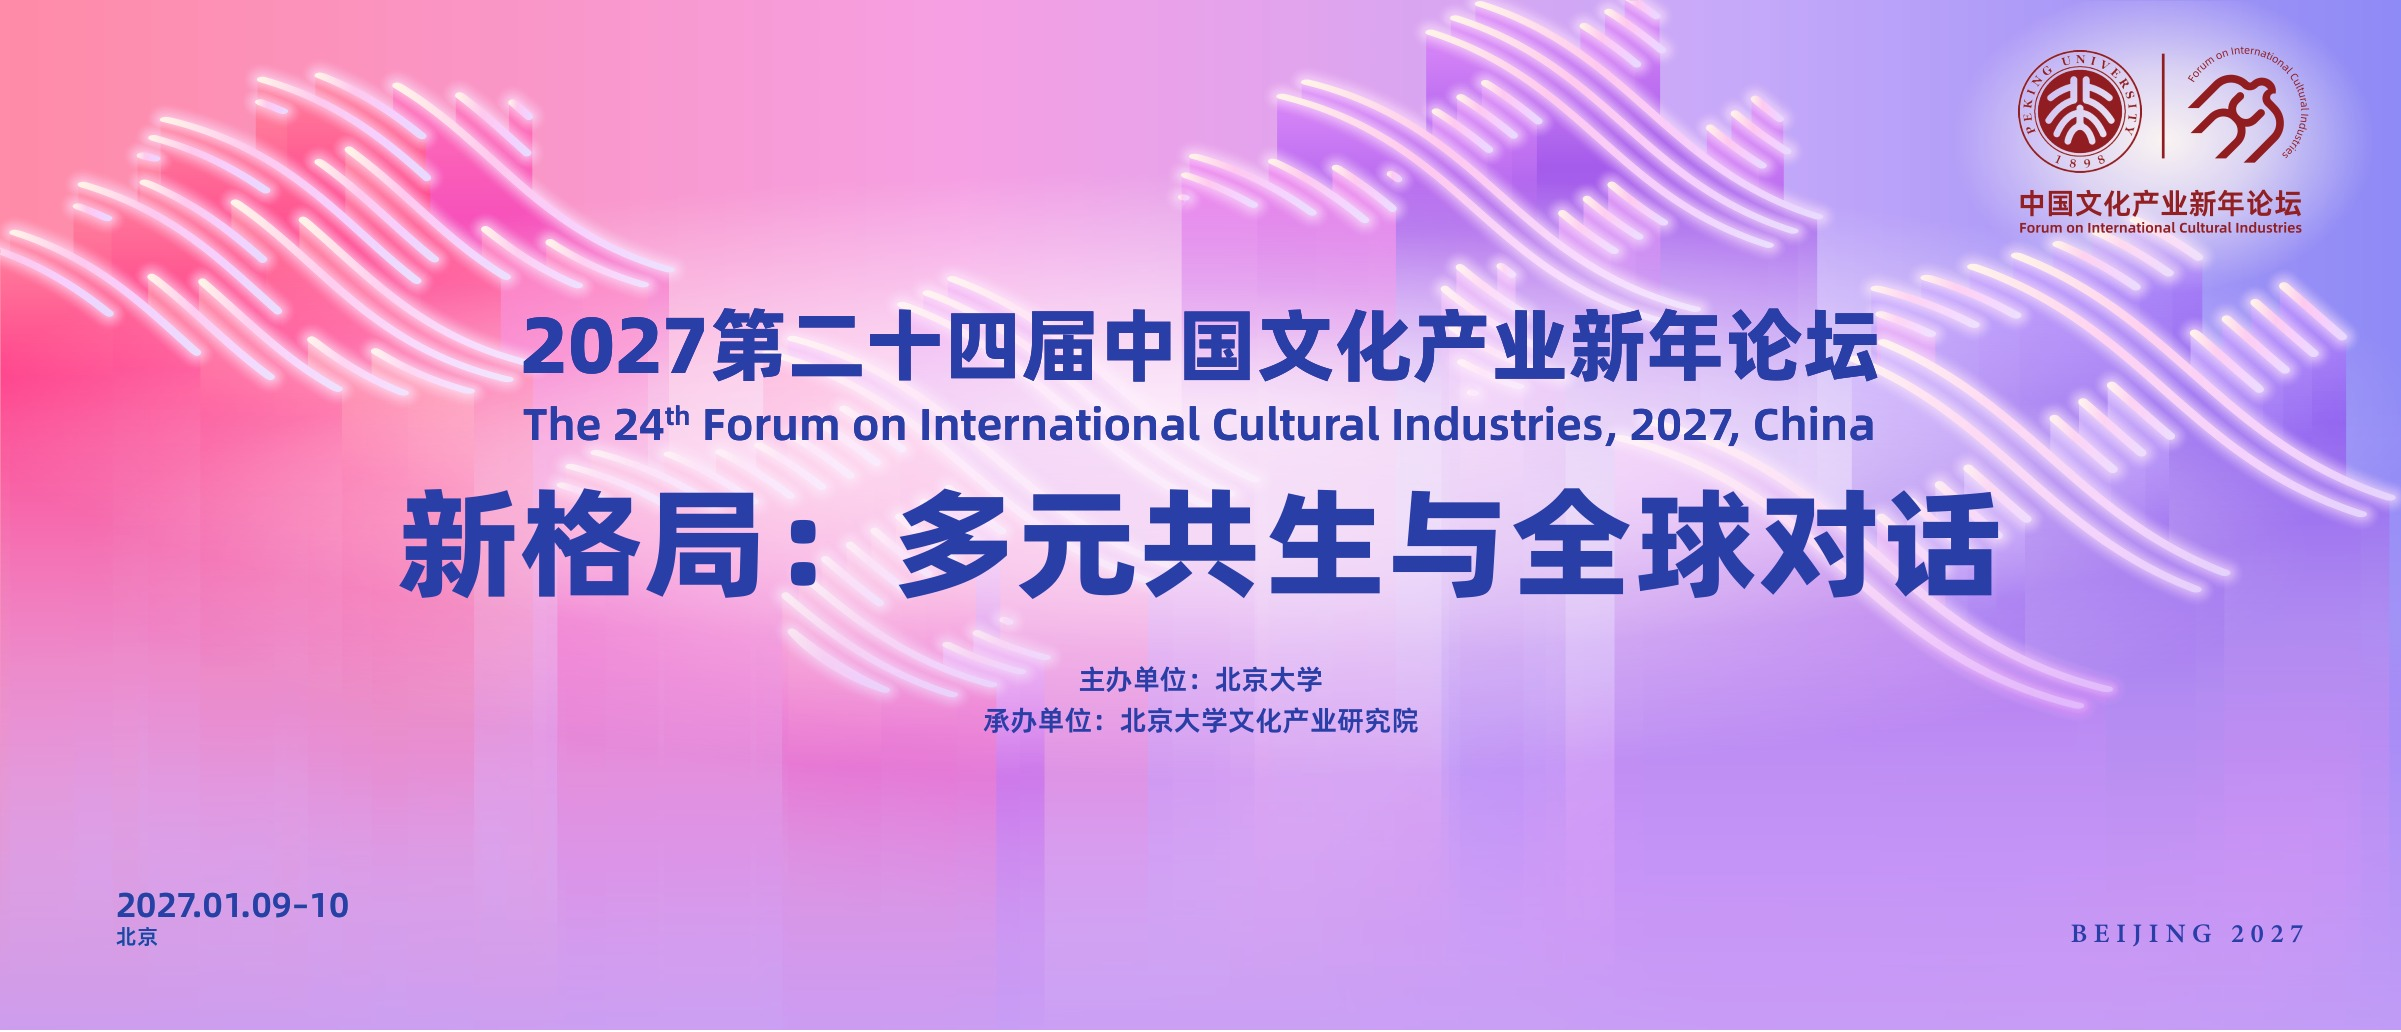
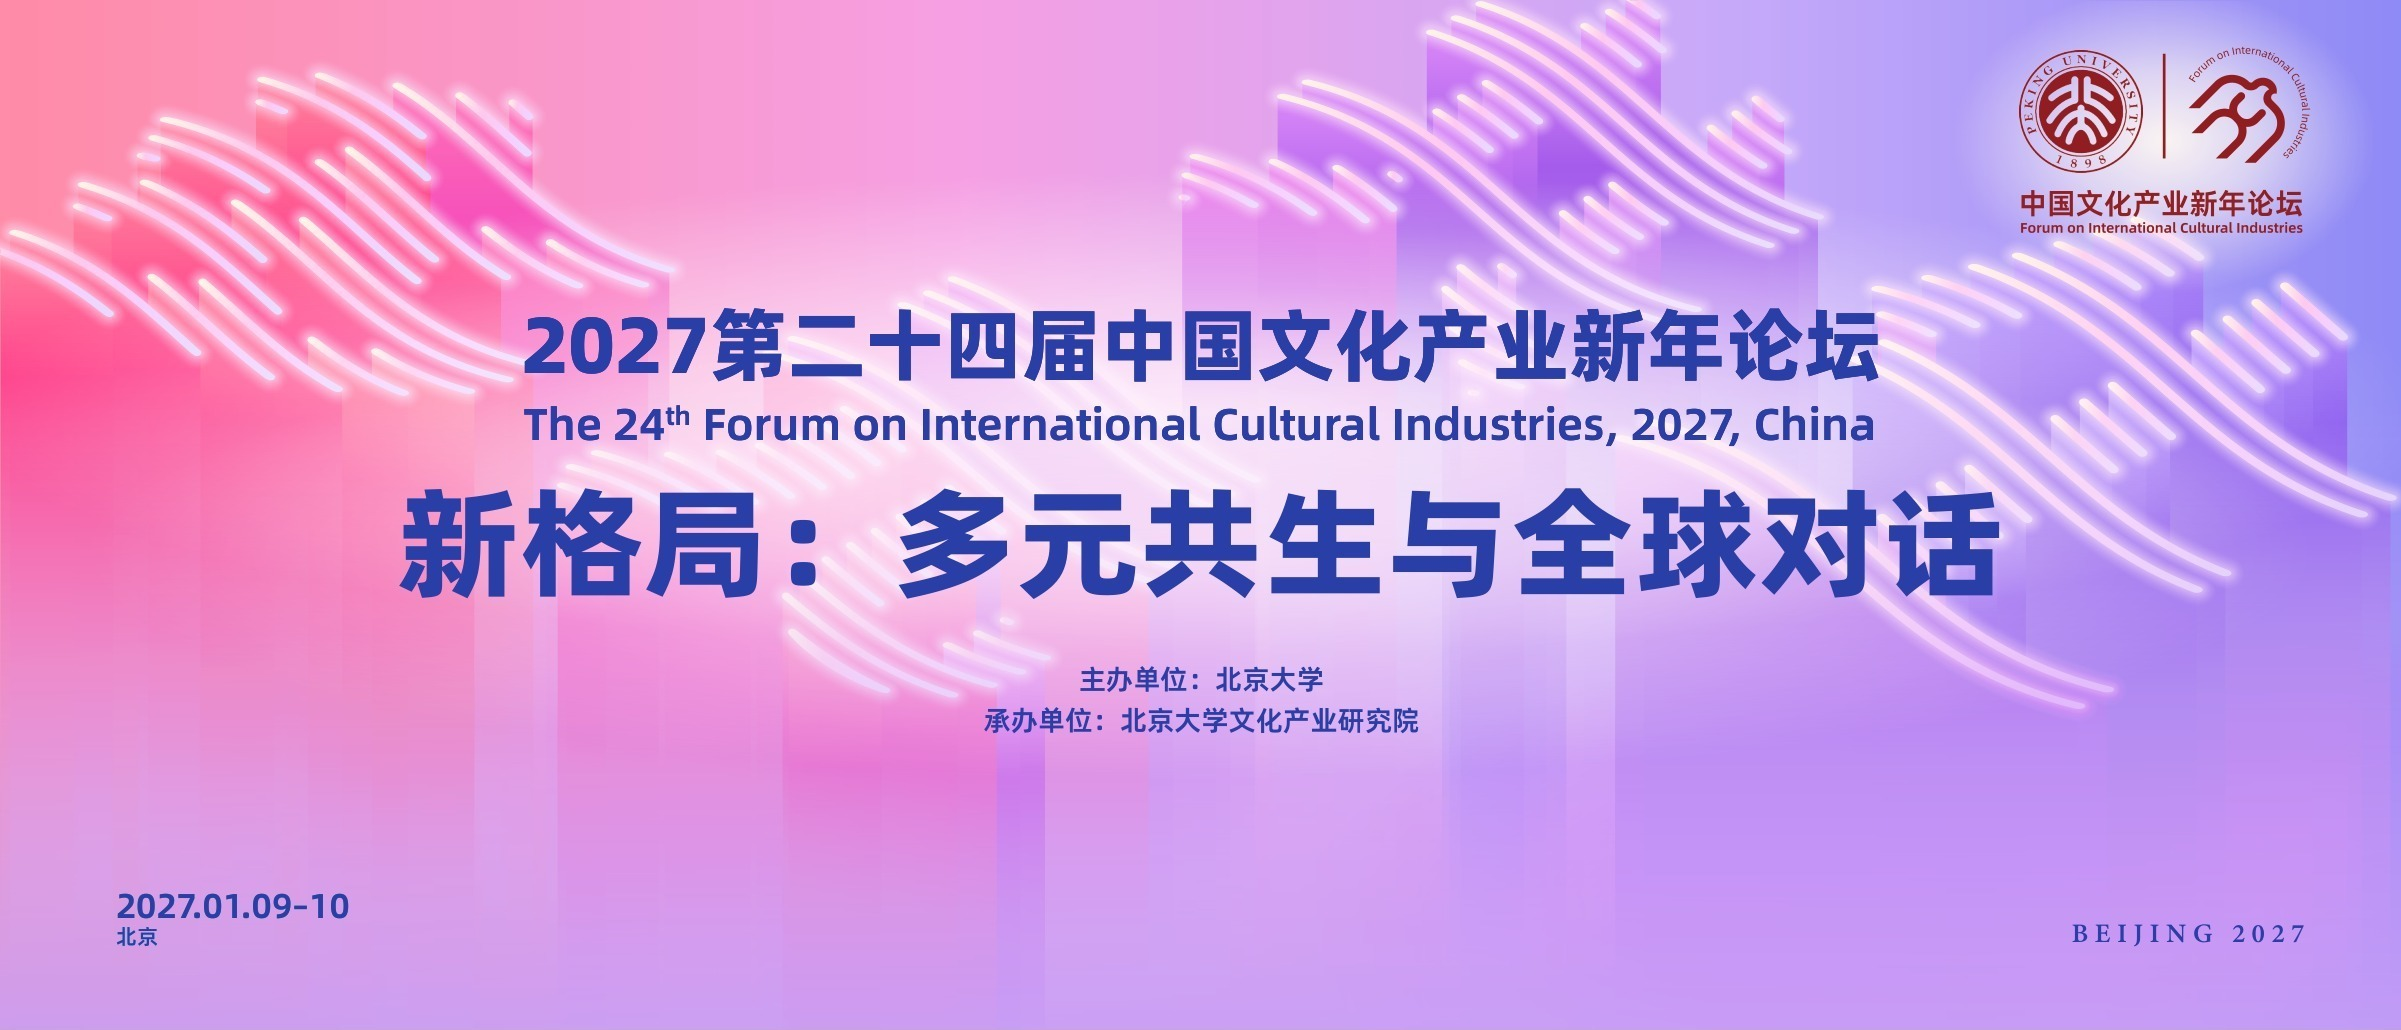
主视觉去掉底部白边；导航移除最新消息
- hero-poster 重新从 PDF render 并裁掉底部白边（2401×1030），同步 width/height 与 aspect-ratio
- 导航去掉「最新消息」入口，站内改由首页最新消息板块进入 news.html

diff --git a/index.html b/index.html
@@ -23,7 +23,6 @@
     <nav class="nav" id="nav" aria-label="主导航">
       <ul class="nav-list">
         <li class="is-active"><a href="index.html">首页</a></li>
-        <li><a href="news.html">最新消息</a></li>
         <li><a href="agenda.html">简要日程</a></li>
         <li><a href="program.html">论坛板块</a></li>
         <li><a href="speeches.html">演讲集萃</a></li>
@@ -46,7 +45,7 @@
 
 <section class="hero" aria-label="主视觉">
   <div class="hero-poster-wrap">
-    <img class="hero-poster" src="assets/hero-poster.jpg" alt="2027第二十四届中国文化产业新年论坛主视觉海报" width="2401" height="1032">
+    <img class="hero-poster" src="assets/hero-poster.jpg" alt="2027第二十四届中国文化产业新年论坛主视觉海报" width="2401" height="1030">
   </div>
   <div class="hero-bar" aria-hidden="true"></div>
 </section>

diff --git a/agenda.html b/agenda.html
@@ -23,7 +23,6 @@
     <nav class="nav" id="nav" aria-label="主导航">
       <ul class="nav-list">
         <li><a href="index.html">首页</a></li>
-        <li><a href="news.html">最新消息</a></li>
         <li class="is-active"><a href="agenda.html">简要日程</a></li>
         <li><a href="program.html">论坛板块</a></li>
         <li><a href="speeches.html">演讲集萃</a></li>

diff --git a/news.html b/news.html
@@ -23,7 +23,6 @@
     <nav class="nav" id="nav" aria-label="主导航">
       <ul class="nav-list">
         <li><a href="index.html">首页</a></li>
-        <li class="is-active"><a href="news.html">最新消息</a></li>
         <li><a href="agenda.html">简要日程</a></li>
         <li><a href="program.html">论坛板块</a></li>
         <li><a href="speeches.html">演讲集萃</a></li>

diff --git a/program-main.html b/program-main.html
@@ -23,7 +23,6 @@
     <nav class="nav" id="nav" aria-label="主导航">
       <ul class="nav-list">
         <li><a href="index.html">首页</a></li>
-        <li><a href="news.html">最新消息</a></li>
         <li><a href="agenda.html">简要日程</a></li>
         <li class="is-active"><a href="program.html">论坛板块</a></li>
         <li><a href="speeches.html">演讲集萃</a></li>

diff --git a/program-theme.html b/program-theme.html
@@ -23,7 +23,6 @@
     <nav class="nav" id="nav" aria-label="主导航">
       <ul class="nav-list">
         <li><a href="index.html">首页</a></li>
-        <li><a href="news.html">最新消息</a></li>
         <li><a href="agenda.html">简要日程</a></li>
         <li class="is-active"><a href="program.html">论坛板块</a></li>
         <li><a href="speeches.html">演讲集萃</a></li>

diff --git a/program-thinktank.html b/program-thinktank.html
@@ -23,7 +23,6 @@
     <nav class="nav" id="nav" aria-label="主导航">
       <ul class="nav-list">
         <li><a href="index.html">首页</a></li>
-        <li><a href="news.html">最新消息</a></li>
         <li><a href="agenda.html">简要日程</a></li>
         <li class="is-active"><a href="program.html">论坛板块</a></li>
         <li><a href="speeches.html">演讲集萃</a></li>

diff --git a/program-young.html b/program-young.html
@@ -23,7 +23,6 @@
     <nav class="nav" id="nav" aria-label="主导航">
       <ul class="nav-list">
         <li><a href="index.html">首页</a></li>
-        <li><a href="news.html">最新消息</a></li>
         <li><a href="agenda.html">简要日程</a></li>
         <li class="is-active"><a href="program.html">论坛板块</a></li>
         <li><a href="speeches.html">演讲集萃</a></li>

diff --git a/program.html b/program.html
@@ -23,7 +23,6 @@
     <nav class="nav" id="nav" aria-label="主导航">
       <ul class="nav-list">
         <li><a href="index.html">首页</a></li>
-        <li><a href="news.html">最新消息</a></li>
         <li><a href="agenda.html">简要日程</a></li>
         <li class="is-active"><a href="program.html">论坛板块</a></li>
         <li><a href="speeches.html">演讲集萃</a></li>

diff --git a/speeches.html b/speeches.html
@@ -23,7 +23,6 @@
     <nav class="nav" id="nav" aria-label="主导航">
       <ul class="nav-list">
         <li><a href="index.html">首页</a></li>
-        <li><a href="news.html">最新消息</a></li>
         <li><a href="agenda.html">简要日程</a></li>
         <li><a href="program.html">论坛板块</a></li>
         <li class="is-active"><a href="speeches.html">演讲集萃</a></li>

diff --git a/gallery.html b/gallery.html
@@ -23,7 +23,6 @@
     <nav class="nav" id="nav" aria-label="主导航">
       <ul class="nav-list">
         <li><a href="index.html">首页</a></li>
-        <li><a href="news.html">最新消息</a></li>
         <li><a href="agenda.html">简要日程</a></li>
         <li><a href="program.html">论坛板块</a></li>
         <li><a href="speeches.html">演讲集萃</a></li>

diff --git a/history.html b/history.html
@@ -23,7 +23,6 @@
     <nav class="nav" id="nav" aria-label="主导航">
       <ul class="nav-list">
         <li><a href="index.html">首页</a></li>
-        <li><a href="news.html">最新消息</a></li>
         <li><a href="agenda.html">简要日程</a></li>
         <li><a href="program.html">论坛板块</a></li>
         <li><a href="speeches.html">演讲集萃</a></li>

diff --git a/publication.html b/publication.html
@@ -23,7 +23,6 @@
     <nav class="nav" id="nav" aria-label="主导航">
       <ul class="nav-list">
         <li><a href="index.html">首页</a></li>
-        <li><a href="news.html">最新消息</a></li>
         <li><a href="agenda.html">简要日程</a></li>
         <li><a href="program.html">论坛板块</a></li>
         <li><a href="speeches.html">演讲集萃</a></li>
